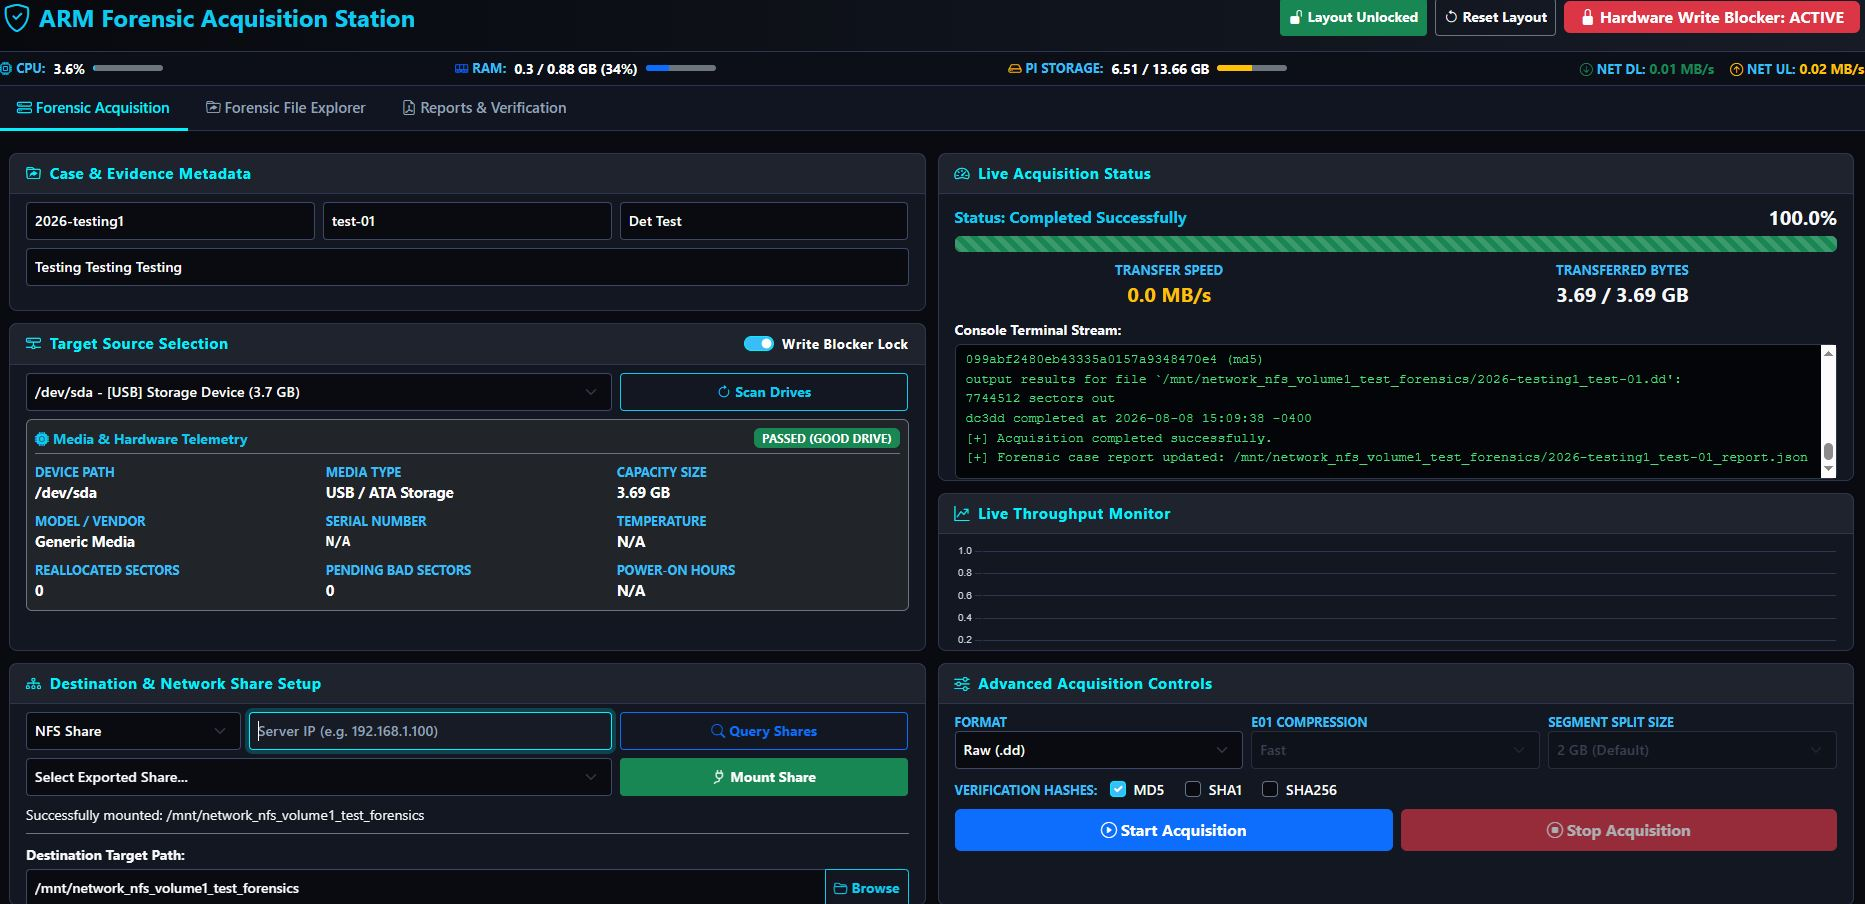
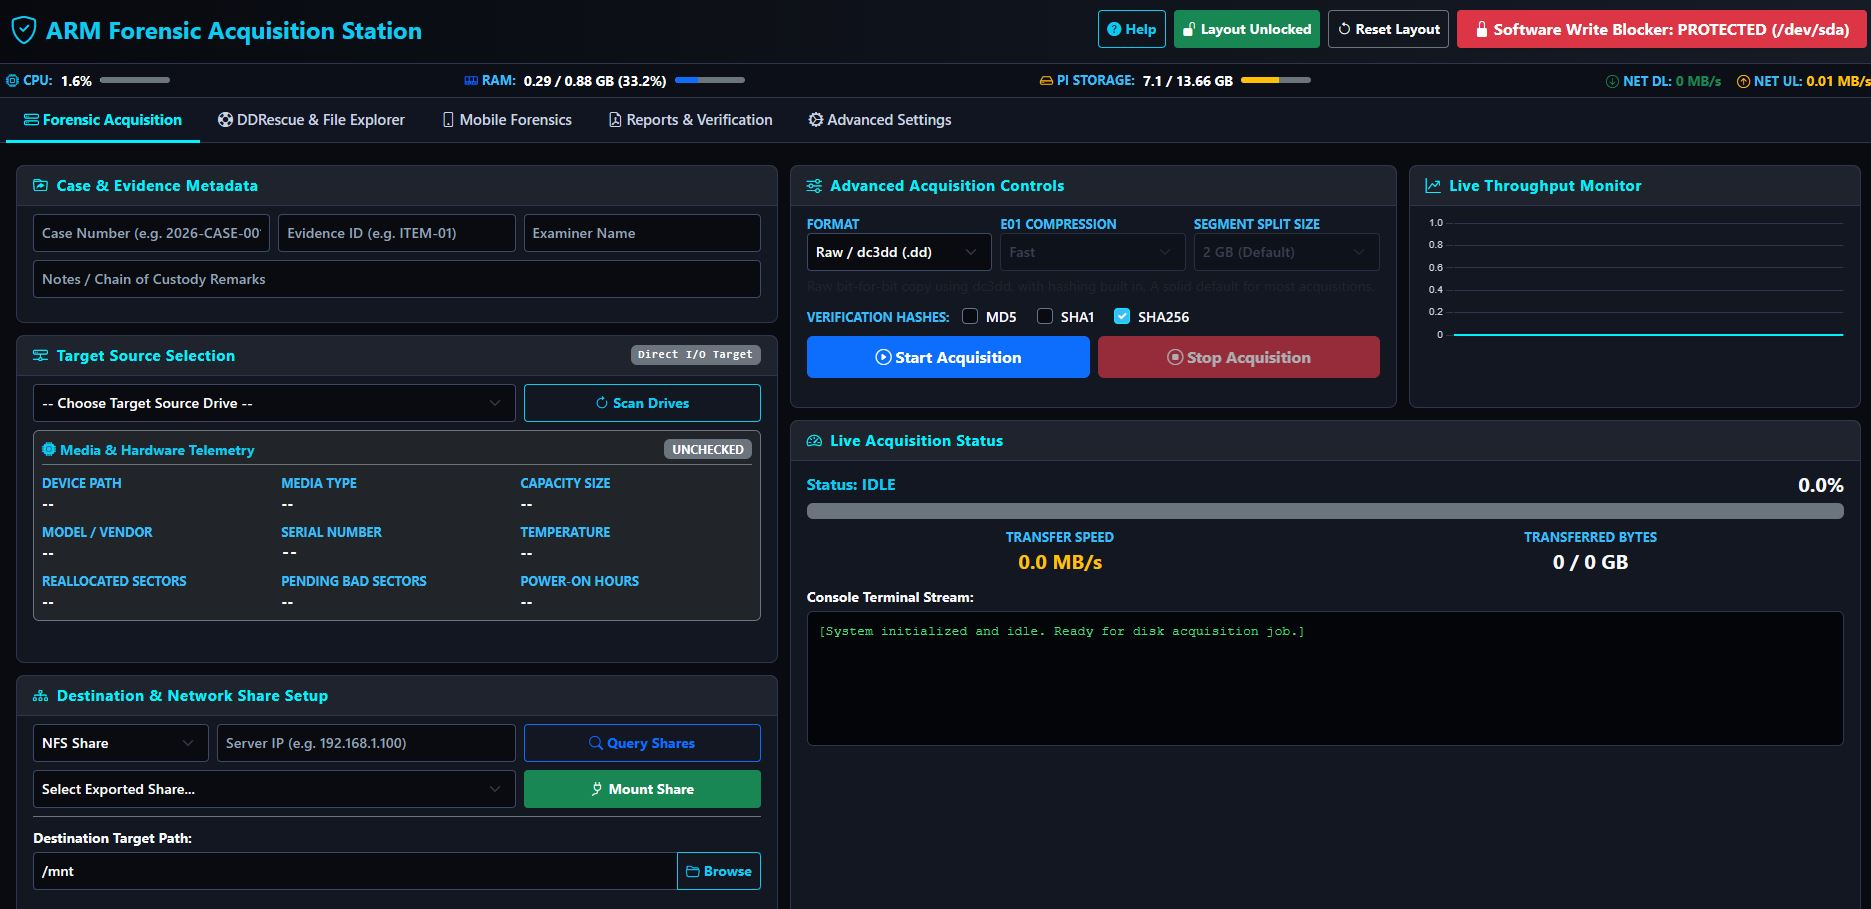
Updated Readme and Screenshots

diff --git a/README.md b/README.md
@@ -47,15 +47,27 @@ https://commons.erau.edu/jdfsl/vol11/iss1/3/
 </p>
 
 <p align="center">
-  <img src="docs/images/PIF2.JPG" width="100%" alt="File Explorer" />
+  <img src="docs/images/PIF2.JPG" width="100%" alt="DDRescue & File Explorer" />
   <br>
   <em>Figure 2: DDRescue GUI and Dual Pane File Explorer Tab with copy to or from Device.</em>
 </p>
 
 <p align="center">
-  <img src="docs/images/PIF3.JPG" width="100%" alt="Reporting" />
+  <img src="docs/images/PIF3.JPG" width="100%" alt="Mobile Forensics" />
   <br>
-  <em>Figure 3: Reporting, Case & URL attachments, JSON file raw viewer & PDF File export, and Image Integrity Verification with hash matching.</em>
+  <em>Figure 3: Mobile Forensics for IOS/Android.</em>
+</p>
+
+<p align="center">
+  <img src="docs/images/PIF4.JPG" width="100%" alt="Reporting & Verification" />
+  <br>
+  <em>Figure 4: Reporting, Case & URL attachments, JSON file raw viewer & PDF File export, Chain of Custoday Logs, History, and Image Integrity Verification with hash matching.</em>
+</p>
+
+<p align="center">
+  <img src="docs/images/PIF5.JPG" width="100%" alt="Advanced Settings" />
+  <br>
+  <em>Figure 4: Change Password, Restart Services, Tool & Update Packages, Reboot/Power Off, System Diagonostics.</em>
 </p>
 
 ---
